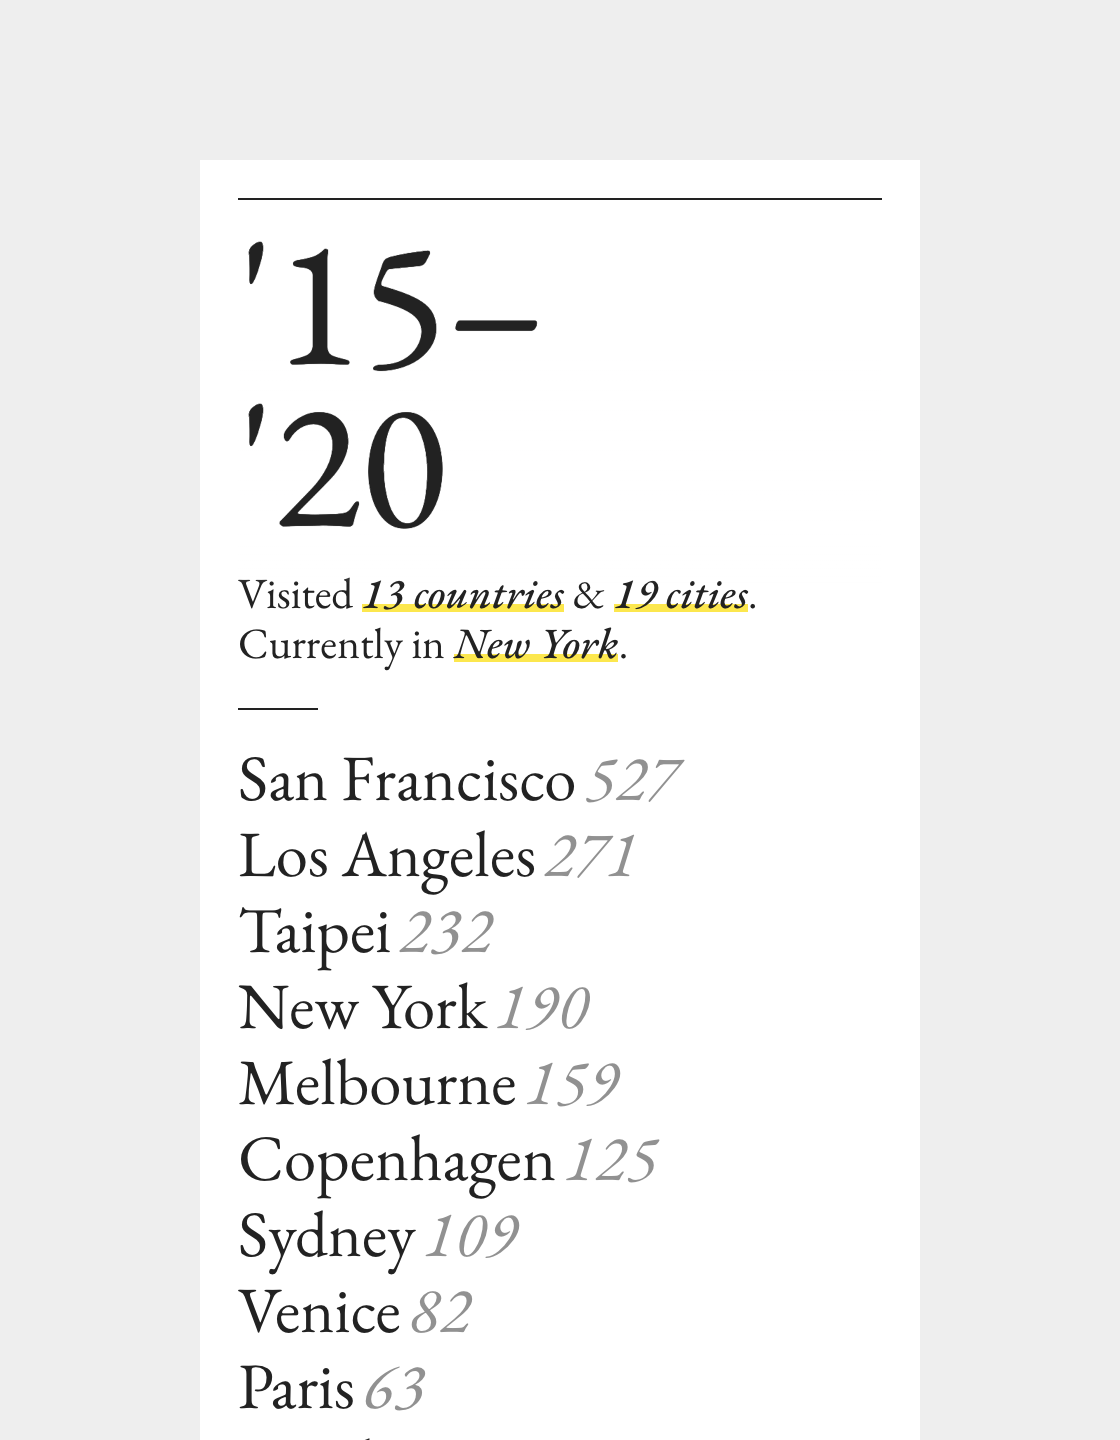
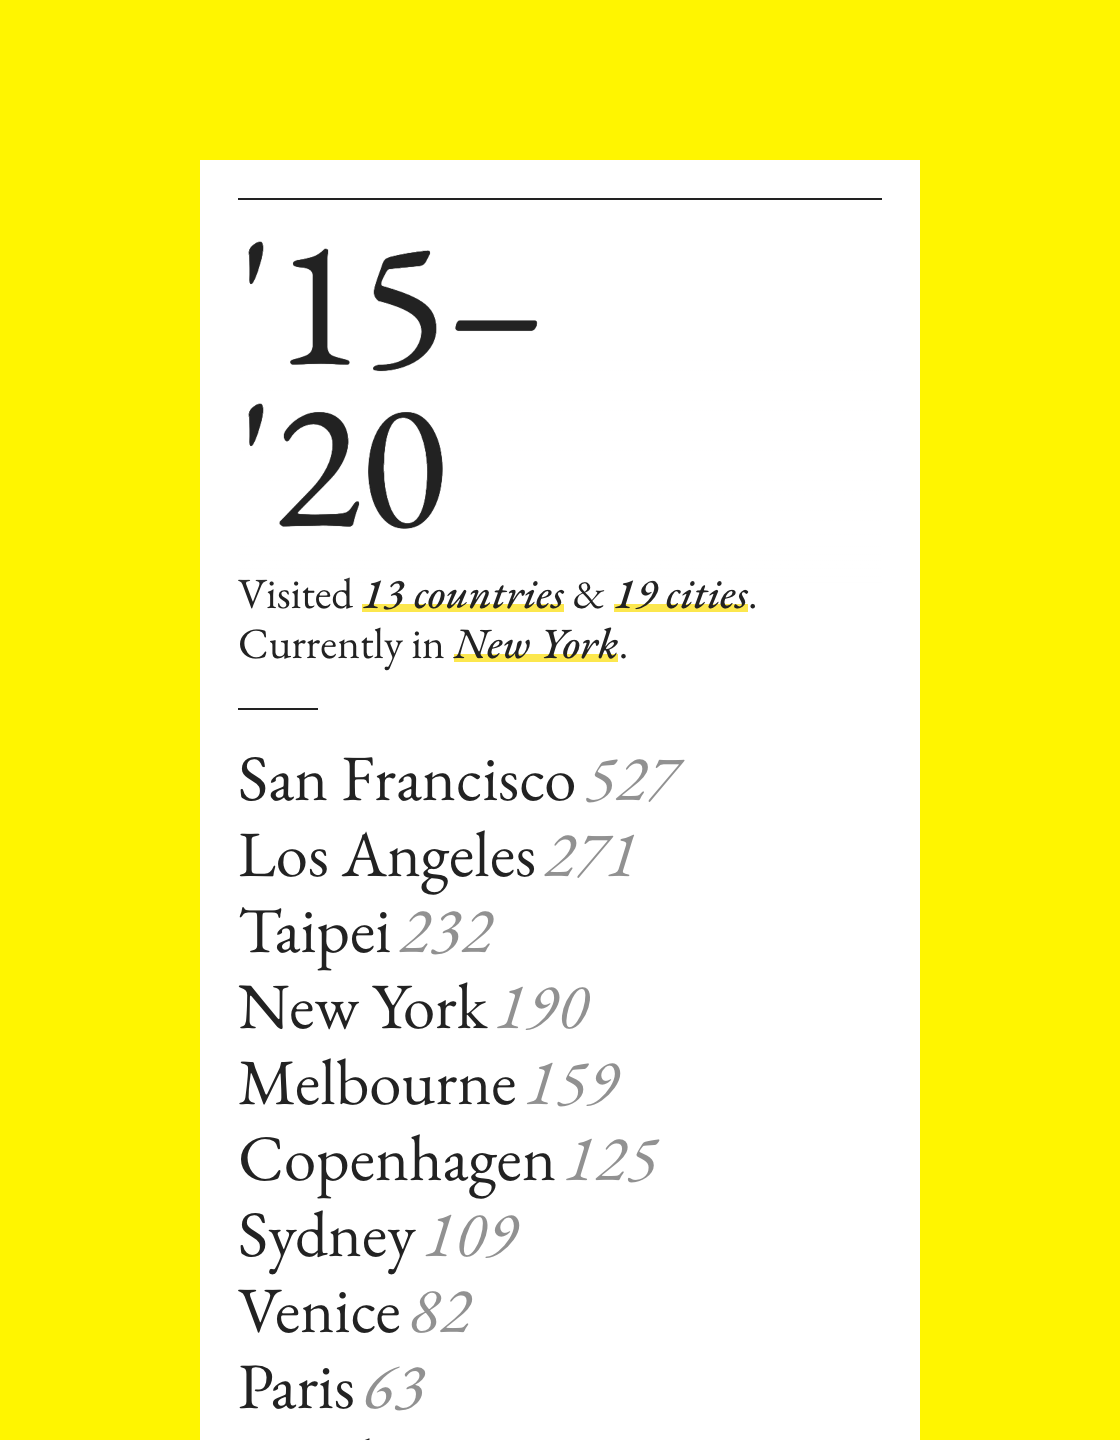
updated screenshots

diff --git a/src/projects/traces-report.md b/src/projects/traces-report.md
@@ -16,9 +16,9 @@ cover: "./../images/traces-report/cover2.png"
 
 <div class="text">The color theme corresponds to the local day/night time of the viewer. Information are organized chronologically and abstracted for mobile screen to optimize user experience.</div>
 
-![Travel Log](./../images/traces-report/101.png)
+![Travel Log](./../images/traces-report/501.png)
 
-![Travel Log](./../images/traces-report/100.png)
+![Travel Log](./../images/traces-report/503.png)
 
 <div class="text">I've been keeping travel records in a Google Spreadsheet for many years, and this project has evolved over time. The current design enables me to reflect on my personal history and the relationship with different places I've lived, visited and left. </div>
 
